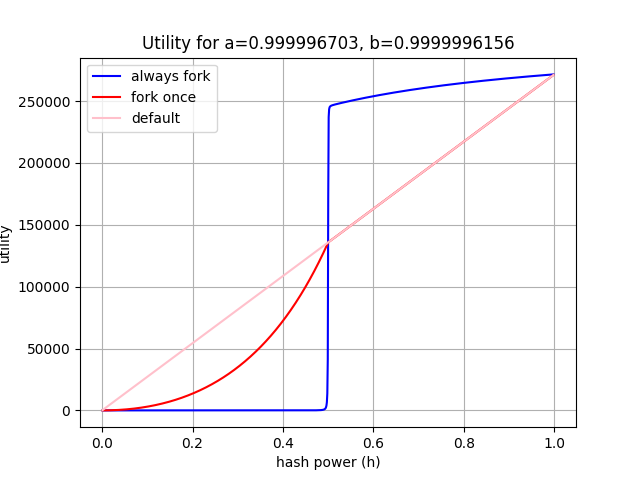
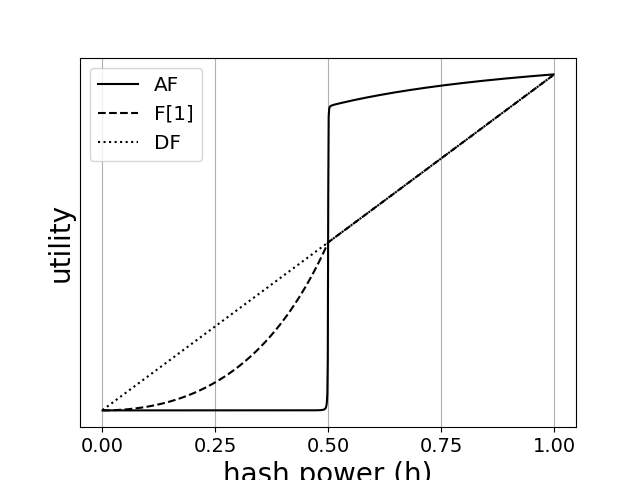
plots

diff --git a/AbstractDoc/WWW/dec_payoff.tex b/AbstractDoc/WWW/dec_payoff.tex
@@ -472,9 +472,9 @@ The closed form for $\varphi$ is computed in a similar way, constructing again g
 \medskip
 \noindent
 \textbf{When to fork}. To answer this question, we used the closed forms of $\bdf$ and $\baf$ to compute the utility for a fixed $\alpha$, $\beta$ and varying hash power. 
-To make it realistic as possible, we computed realistic values for $\alpha$ and $\beta$. For $\alpha$ we calculate the compound version of the discount of the bitcoin protocol, that is, 
-the value XXXX verifying that $\alpha^{210.000} = 1/2$. 
-For $\beta$ we calculate the 10-minute equivalent rate that would give us the US real interest rate in 2017 when compound over a year, which amounts to YYYYY. 
+To make it as realistic as possible, we compute $\alpha$ and $\beta$ as follows. For $\alpha$ we calculate the compound version of the discount in Bitcoin, that is, 
+a value of alpha that would divide the reward by half every 210.000 blocks. Solving  $\alpha^{210.000} = 1/2$ gives us a value of $\alpha = 0.9999967030$. For 
+$\beta$ we calculate the 10-minute rate that is equivalent to the US real interest rate in 2017, which amounts to 2.2077\%. This gives us a value of $\beta = 0.9999996156$. 
 
 Figure \ref{Fig-af-df-fo} shows the value of the utility for player one when both players use the default strategy (color) and when players behave according to $\baf$ (color). 
 The point where the two lines meet is $h = ZZZZ$, which shows that our model captures and confirms the folklore fact that it is profitable to fork with more than half the hash power. However, it is interesting to note that this is not exactly the case: one should be willing to fork even with a little less than half the hash power. 

diff --git a/AbstractDoc/WWW/scripts/always_fork (2).py b/AbstractDoc/WWW/scripts/always_fork (2).py
@@ -49,11 +49,19 @@ ax.plot(h,always_fork,color='black',linestyle=linestyles[0])
 ax.plot(h,fork_once,color='black',linestyle=linestyles[1])
 ax.plot(h,default,color='black',linestyle=linestyles[3])
 
-ax.set(xlabel='hash power (h)', ylabel='utility',
-       title='Utility for a=%r, b=%r' % (a,b) )
+ax.set(xlabel='hash power (h)', ylabel='utility')
 ax.grid()
 
-ax.legend(['always fork','fork once','default'])
+ax.legend(['AF','F[1]','DF'],fontsize = 'x-large')
+
+ax.set_xticks([0,0.25,0.5,0.75,1])
+ax.set_yticks([])
+
+for item in ax.get_xticklabels():
+	item.set_fontsize(14)
+ax.xaxis.label.set_fontsize(20)
+ax.yaxis.label.set_fontsize(20)
+
 
 fig.savefig("test_AF.png")
 plt.show()
